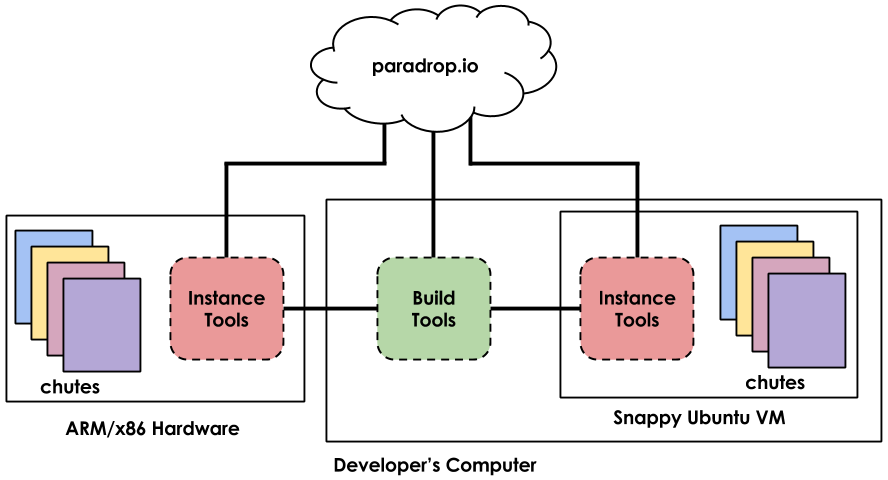
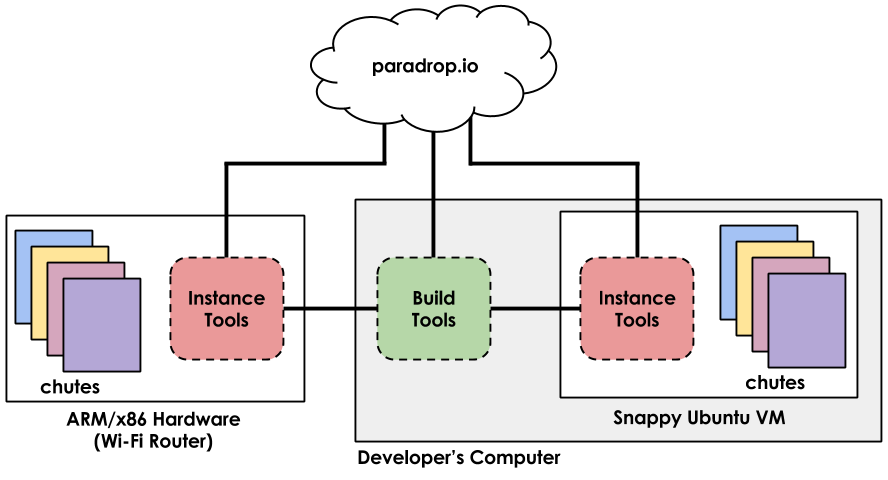
Fixing dev image and adding to getting started docs

Changed region(s): [[0.3649, 0.6562, 0.6385, 1.0], [0.0608, 0.8438, 0.2736, 0.9375], [0.3649, 0.4062, 0.4257, 0.625]]

diff --git a/docs/index.rst b/docs/index.rst
@@ -48,7 +48,17 @@ Getting Started
 
 This will quickly take you through the process of bringing up a Hello World chute in a virtual machine on your computer.
 
-As of Release 0.1 you must compile using Ubuntu??XXX
+*NOTE*: As of release 0.1, pdbuild is built around using Ubuntu. We will eliminate this requirement soon, work arounds can be found at :ref:`no_ubuntu`.
+
+Environment setup
+-------------------
+
+.. TODO: remove need to say install pypubsub once fixed.
+
+0. Prerequisites:
+
+   * Packages: Python 2.7, pip, libffi-dev
+   * When you install build tools you may have to run: ``sudo pip install pypubsub --allow-external pypubsub``
 
 1. Install our `build tools <https://pypi.python.org/pypi/pdtools>`_ (``pip install pdtools``).
 2. Clone our `instance tools <https://github.com/ParadropLabs/Paradrop>`_.
@@ -56,15 +66,43 @@ As of Release 0.1 you must compile using Ubuntu??XXX
 4. Setup instance tools ``pdbuild.sh setup``
 5. Boot local testing VM ``pdbuild.sh up``
 6. Install instance dependencies ``pdbuild.sh install_deps``
-7. Build the tools to go into testing VM ``pdbuild.sh build`` (have to be in Ubuntu rightXXX?)
-8. Push tools into VM ``pdbuild.sh install``
+7. Build the tools to go into testing VM ``pdbuild.sh build``
+8. Push tools into VM ``pdbuild.sh install`` (NOTE: install can fail on occasion, try it again and it usually works)
+9. Check the installation ``pdbuild.sh check``
+
+Installing chutes
+-----------------------
+
+* Clone the Paradrop `example apps <https://github.com/ParadropLabs/Example-Apps>`_.
+
+Install **hello-world** chute::
+
+    cd <apps-repo>/hello-world
+    paradrop chute install localhost 9999 ./config.yaml
+    
+    Result:
+    Chute hello-world create success
+
+As a simple use case, **hello-world** starts an nginx server in the chute. To access this, visit ``localhost:9000`` in any web browser, you should see::
+
+    Hello World from Paradrop!
+
+Running ``paradrop chute stop localhost 9999 hello-world`` will stop the chute, if you refresh the webpage, you should no longer see the Hello World message.
 
 
+Where to go from here?
+====================================
 
-View Get started writing chutes with :doc:`chutes/chutedev`. 
-Learn how to help develop paradrop at :doc:`pd/paradropdev`. 
+We have advanced app examples found under :doc:`chutes/chutedev`.
+If you are interested in working on the instance side of paradrop (our github code) than check out: :doc:`pd/paradropdev`. 
 
 
+.. _no_ubuntu:
 
+What if I don't have Ubuntu?
+====================================
+
+We are actively working on Vagrant, which will allow support across all major operating systems.
+We will also update the docs with notes on how to download precompiled versions of our Paradrop instance tools once they have been fully tested.
 
 
